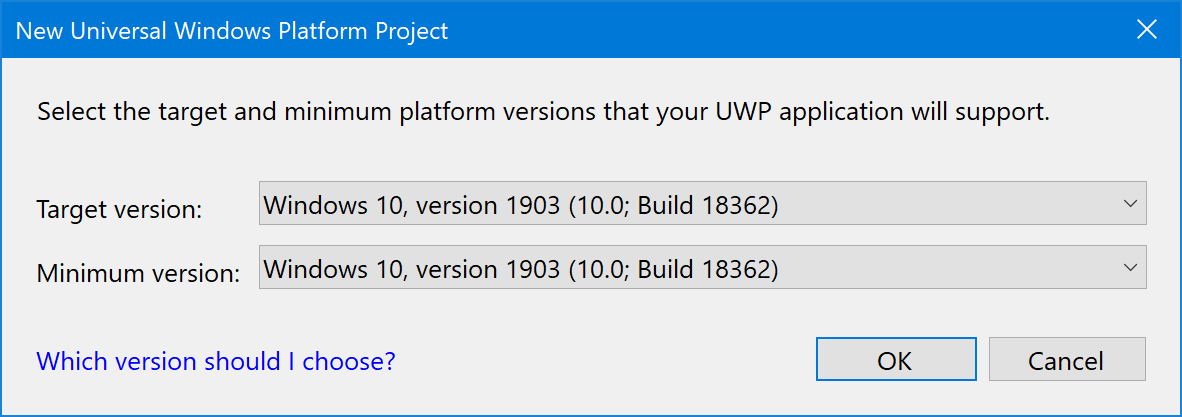
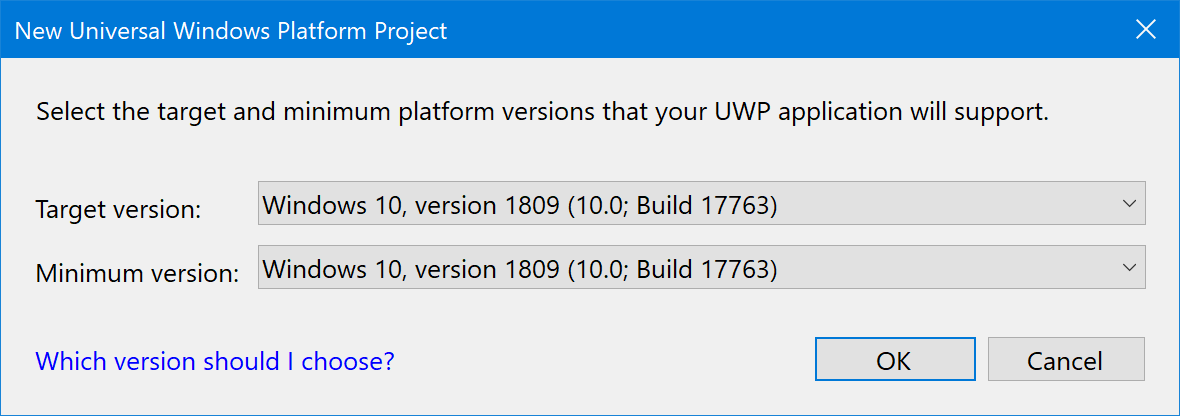
Various improvements

diff --git a/Exercise6/README.md b/Exercise6/README.md
@@ -27,7 +27,7 @@ Visual Studio offers an easy way to package an existing application thanks to a 
     - **Target SDK** defines which APIs of the Universal Windows Platform you'll be able to use in your application. Choosing the most recent version will allow you to leverage all the latest and greates features offered by the platform.
     - **Minimum SDK** defines which is the minimum Windows 10 version you support. Lower versions won't be able to install this package. In case of a packaged Win32 application, the minimum supported version is Windows 10 Anniversary Update, since it was the first release to support the Desktop Bridge.
     
-    For the purpose of our lab make sure to choose the most recent version for both options, as in the following picture:
+    For the purpose of our lab choose Windows 10, version 1809 (build 17763) as in the following picture:
     
     ![](../Manual/Images/TargetSdk.png)
     

diff --git a/Exercise2/README.md b/Exercise2/README.md
@@ -15,6 +15,8 @@ Let's start!
 3. Search for `Microsoft.Toolkit.Wpf.UI.Controls`. The NuGet package from Microsoft.Toolkit will be displayed. Make sure to check the **Include prerelease** option. The current stable release (5.x), in fact, supports only the full .NET Framework, while the upcoming 6.x release (now in preview) includes support for .NET Core 3.0 as well.
 
     ![Microsoft.Toolkit.Wpf.UI.Controls NuGet package](../Manual/Images//Microsoft.Toolkit.Wpf.UI.Controls.png)
+    
+> For the moment, make sure to install version 6.0.0-preview4 and not 6.0.0-preview4.1, since it would prevent the correct execution of Exercise 6.
 
 4.  Click on the **Install** button on the right.
 

diff --git a/Exercise1/README.md b/Exercise1/README.md
@@ -287,5 +287,6 @@ In fact, it is simple. Again, as we hardly deleted all the content of the csproj
 
 
 We are done! Test the app in debug with F5 and it should work... Everything running using .NET Core 3!
+You may notice, if you have a PC with a high resolution screen, that the application will look very small. Don't worry, we're going to fix this problem in the next exercise!
 
 We are now ready to go further and use all the power of the full UWP ecosystem controls, packages, dlls.
